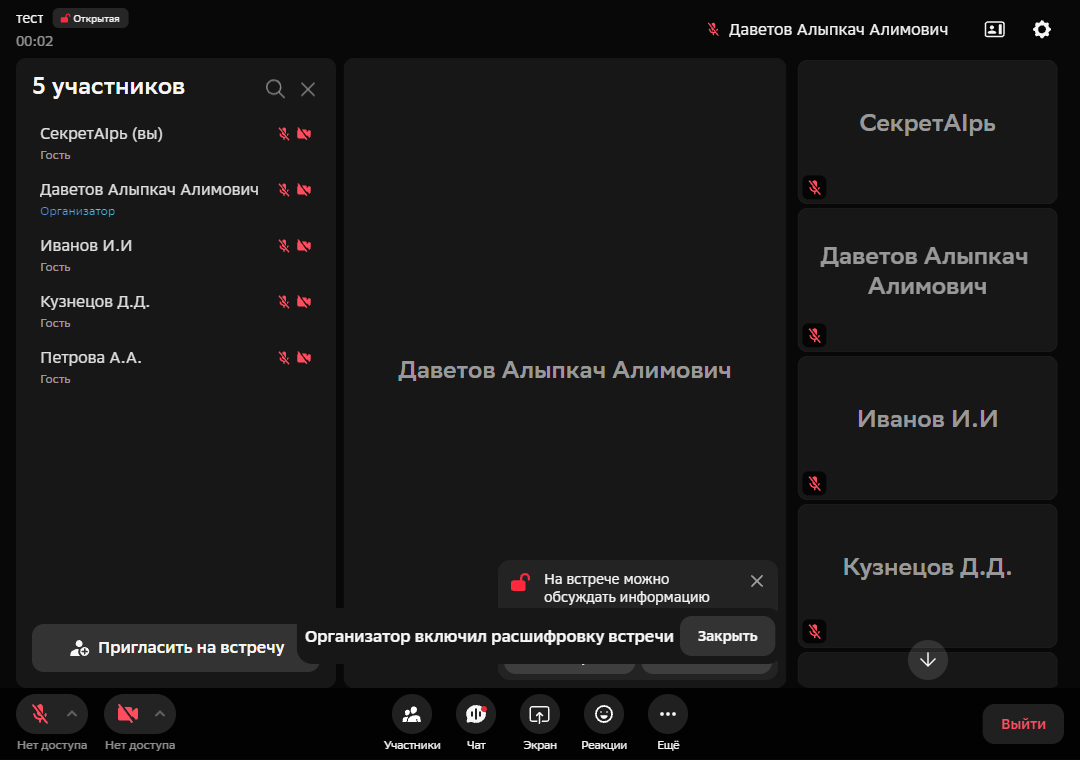
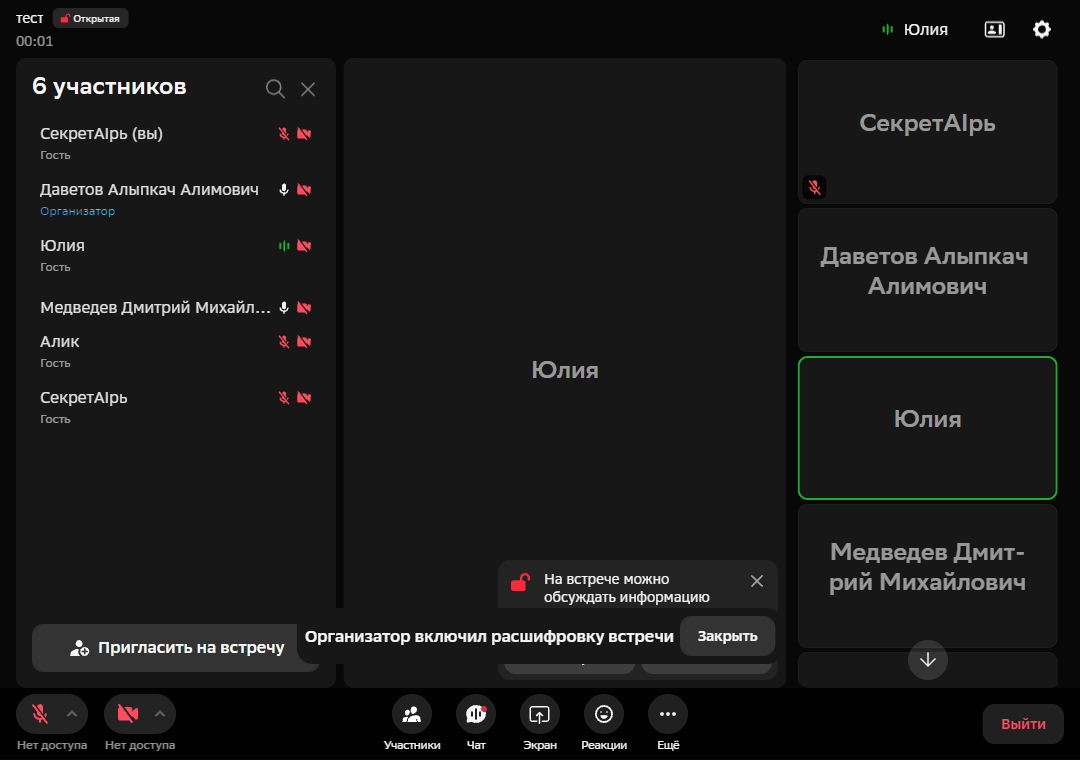
add

diff --git a/server.js b/server.js
@@ -7,7 +7,6 @@ const { sendMessage } = require('./utils/sendMessages');
 const { enableTranscription } = require('./utils/enableTranscription'); 
 const { connectMeatup } = require('./utils/connectMeatup'); 
 
-
 dotenv.config();
 
 const app = express();
@@ -124,7 +123,7 @@ app.post('/send-message', async (req, res) => {
   }
 });
 
-// Функция для циклического запроса истории и отправки резюме каждые 30 секунд
+// Функция для циклического запроса истории, отправки резюме и вызова scrum-master каждые 60 секунд
 async function startPolling(sessionId) {
   const sessionIdStr = String(sessionId); // Преобразуем в строку
 
@@ -149,18 +148,35 @@ async function startPolling(sessionId) {
 
       const summary = summaryResponse.data.summary;
 
-      // 3. Отправляем полученное резюме в /send-message
-      // await axios.post('http://localhost:5000/send-message', {
-      //   sessionId: sessionIdStr, // Обязательно передаем как строку
-      //   message: summary
-      // });
-
+      // Логируем полученное резюме
       console.log('Получено резюме \n:', summary);
+
+      // 3. Вызываем эндпоинт scrum-master для получения сообщения
+      const scrumMasterResponse = await axios.post('http://127.0.0.1:8000/scrum-master/', {
+        messages: history
+      });
+
+      const scrumMasterMessage = scrumMasterResponse.data.decision;
+
+      console.log("Ответ скрам мастера",scrumMasterMessage)
+
+      // Проверяем ответ scrum-master и если он не 'w8', отправляем сообщение
+      if (scrumMasterMessage !== 'w8' || scrumMasterMessage === undefined) { 
+        await axios.post('http://localhost:5000/send-message', {
+          sessionId: sessionIdStr, // Обязательно передаем как строку
+          message: scrumMasterMessage
+        });
+
+        console.log('Сообщение от scrum-master отправлено:', scrumMasterMessage);
+      } else {
+
+        console.log('Ответ от scrum-master: "w8", сообщение не отправлено');
+      }
 
     } catch (error) {
       console.error('Ошибка при запросе и отправке данных:', error.message);
     }
-  }, 10000); // Интервал 30 секунд
+  }, 20000); // Интервал 20 секунд
 }
 
 // Запуск сервера
